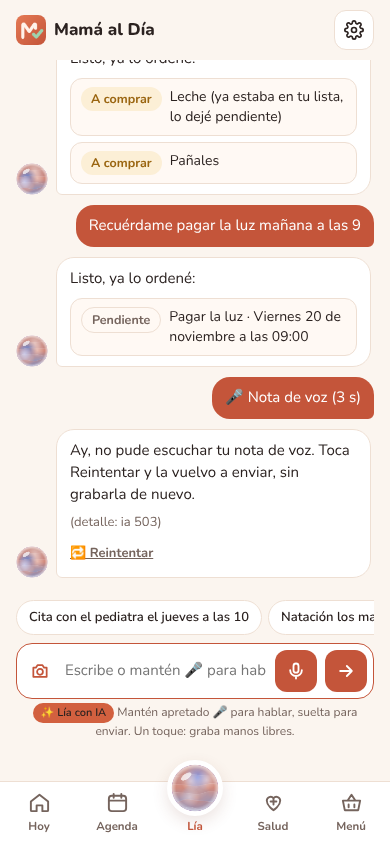
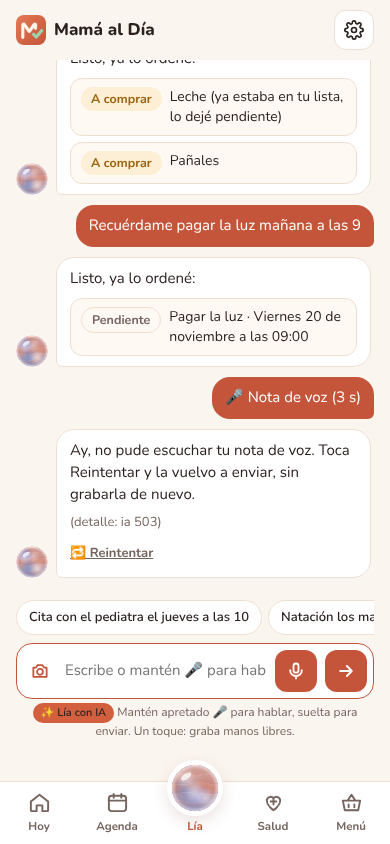
Modo "Hola Lía": activación por voz opcional con la app abierta y envío automático al terminar de hablar
Claude-Session: https://claude.ai/code/session_01XHFHEtpVzSWU39u8h6mkgx

diff --git a/index.html b/index.html
@@ -839,10 +839,10 @@ function recBar(){if(!rec)return;let b=$('#recbar');if(!b){b=document.createElem
  const s=Math.floor((Date.now()-rec.t0)/1000);if(s>=180&&!rec.done){finishRec(false);return}
  const live=(rec.final+' '+rec.interim).trim();
  b.className='recbar'+(rec.cancel?' cancel':'')+((aiCode()&&canAudio()&&!rec.ready)?' wait':'');
- b.innerHTML=`<span class="dot"></span><span class="tm">${Math.floor(s/60)}:${pad(s%60)}</span><span class="hint">${rec.cancel?'Suelta para cancelar':live?esc(live):(aiCode()&&canAudio()&&!rec.ready)?'Un segundito… espera la vibración y habla':rec.locked?'Te escucho… toca Enviar cuando termines':'Te escucho… suelta para enviar · desliza ← para cancelar'}</span>${rec.locked?'<button class="x" onclick="finishRec(true)">✕</button><button class="ok" onclick="finishRec(false)">Enviar</button>':''}`}
+ b.innerHTML=`<span class="dot"></span><span class="tm">${Math.floor(s/60)}:${pad(s%60)}</span><span class="hint">${rec.cancel?'Suelta para cancelar':live?esc(live):(aiCode()&&canAudio()&&!rec.ready)?'Un segundito… espera la vibración y habla':rec.auto?'Te escucho… cuando termines de hablar, lo envío':rec.locked?'Te escucho… toca Enviar cuando termines':'Te escucho… suelta para enviar · desliza ← para cancelar'}</span>${rec.locked?'<button class="x" onclick="finishRec(true)">✕</button><button class="ok" onclick="finishRec(false)">Enviar</button>':''}`}
 function stopUI(){if(rec){clearInterval(rec.timer);if(rec.btn)rec.btn.classList.remove('rec')}const b=$('#recbar');if(b)b.remove()}
 let micSt=null,micOff=null;
-function micKeep(){clearTimeout(micOff);micOff=setTimeout(()=>{if(micSt&&!rec){micSt.getTracks().forEach(t=>t.stop());micSt=null}},90000)}
+function micKeep(){clearTimeout(micOff);micOff=setTimeout(()=>{if(micSt&&!rec){micSt.getTracks().forEach(t=>t.stop());micSt=null}},S.wake?50:90000)}
 async function getMic(){if(micSt&&micSt.getAudioTracks().some(t=>t.readyState==='live'))return micSt;micSt=await navigator.mediaDevices.getUserMedia({audio:{echoCancellation:true,noiseSuppression:true}});return micSt}
 async function startAudio(){const r=rec;
  try{const st=await getMic();
@@ -850,7 +850,7 @@ async function startAudio(){const r=rec;
   if(!r.held&&!r.locked&&Date.now()-r.t0>900){micKeep();stopUI();rec=null;toast('Listo. Ahora mantén apretado 🎤 mientras hablas');return}
   const mt=['audio/webm;codecs=opus','audio/webm','audio/mp4','audio/ogg;codecs=opus'].find(t=>MediaRecorder.isTypeSupported&&MediaRecorder.isTypeSupported(t));
   const mr=new MediaRecorder(st,mt?{mimeType:mt,audioBitsPerSecond:32000}:undefined);r.mr=mr;r.st=st;r.chunks=[];r.tA=Date.now();
-  mr.ondataavailable=ev=>{if(ev.data&&ev.data.size)r.chunks.push(ev.data)};mr.start(250);r.ready=true;try{navigator.vibrate&&navigator.vibrate(25)}catch(x){}recBar();
+  mr.ondataavailable=ev=>{if(ev.data&&ev.data.size)r.chunks.push(ev.data)};mr.start(250);r.ready=true;if(r.auto)autoStop(r,st);try{navigator.vibrate&&navigator.vibrate(25)}catch(x){}recBar();
   if(r.pendingStop)finishRec(r.pendingCancel)}
  catch(err){stopUI();rec=null;if(SRc()){toast('Sin permiso de micrófono para notas de voz')}else toast('Activa el permiso del micrófono para hablar con Lía')}}
 function startSR(){const r=rec;const SR=SRc();
@@ -917,6 +917,29 @@ function orbLoop(now){requestAnimationFrame(orbLoop);if(document.hidden)return;c
  const st={o:ORB,amp:orbAmp,t:orbT,phase:0};
  document.querySelectorAll('canvas.orb').forEach(cv=>{const live=cv.closest('.face,.hi');if(!live){if(cv.dataset.d)return;cv.dataset.d=1;orbDraw(cv,{o:ORB,amp:0,t:orbT,phase:0},true);return}orbDraw(cv,st,true)})}
 requestAnimationFrame(orbLoop);
+
+/* ---- "Hola Lía": escucha la palabra de activación con la app abierta ---- */
+let wakeSR=null;
+function wakeStop(){const g=wakeSR;wakeSR=null;if(g){g.onend=null;try{g.abort()}catch(e){}}}
+function wakeOk(){return S&&S.wake&&SRc()&&!document.hidden&&!rec&&!busy&&!document.body.classList.contains('lia-talk')&&!($('#dlg')||{}).open}
+function wakeTick(){if(!wakeOk()){if(wakeSR&&(rec||busy||document.hidden||document.body.classList.contains('lia-talk')))wakeStop();return}if(wakeSR)return;
+ const g=new (SRc())();wakeSR=g;g.lang='es-BO';g.continuous=true;g.interimResults=true;
+ g.onresult=ev=>{let t='';for(let i=ev.resultIndex;i<ev.results.length;i++)t+=' '+ev.results[i][0].transcript;
+  if(/\b(hola|ola|oye|hey)\s*,?\s*(l[ií]a|lea|leah|lilia|l[ií]ah)\b/i.test(norm(t)))wakeHit()};
+ g.onerror=ev=>{if(ev.error==='not-allowed'||ev.error==='service-not-allowed'){S.wake=false;save();toast('Sin permiso de micrófono para "Hola Lía"')}};
+ g.onend=()=>{if(wakeSR===g)wakeSR=null};
+ try{g.start()}catch(e){wakeSR=null}}
+function wakeHit(){wakeStop();if(rec||busy)return;try{navigator.vibrate&&navigator.vibrate(30)}catch(e){}ctxOn();chime();if(S.tab!=='lia'){S.tab='lia';save();render()}
+ setTimeout(()=>{if(rec||busy)return;rec={src:'ci',btn:null,x0:0,t0:Date.now(),held:false,locked:true,auto:true,cancel:false,final:'',interim:''};recBar();rec.timer=setInterval(recBar,250);
+  if(aiCode()&&canAudio())startAudio();else{startSR();autoStopSR(rec)}},450)}
+function autoStop(r,st){try{const a=ctxOn();const src=a.createMediaStreamSource(st);const an=a.createAnalyser();an.fftSize=1024;src.connect(an);const buf=new Uint8Array(an.fftSize);
+ let heard=false,loud=Date.now();const t0=Date.now();
+ const iv=setInterval(()=>{if(rec!==r||r.done){clearInterval(iv);try{src.disconnect()}catch(e){}return}an.getByteTimeDomainData(buf);let q=0;for(let i=0;i<buf.length;i++){const v=(buf[i]-128)/128;q+=v*v}const rms=Math.sqrt(q/buf.length);
+  if(rms>0.035){if(Date.now()-t0>250)heard=true;loud=Date.now()}
+  if(heard&&Date.now()-loud>1800){clearInterval(iv);finishRec(false)}else if(!heard&&Date.now()-t0>8000){clearInterval(iv);finishRec(true)}},100)}catch(e){}}
+function autoStopSR(r){let last='',t=Date.now();const iv=setInterval(()=>{if(rec!==r||r.done){clearInterval(iv);return}const now=(r.final+' '+r.interim).trim();if(now!==last){last=now;t=Date.now()}
+ if(now&&Date.now()-t>1800){clearInterval(iv);finishRec(false)}else if(!now&&Date.now()-t>8000){clearInterval(iv);finishRec(true)}},200)}
+setInterval(wakeTick,1500);
 /* ---- voz de Lía ---- */
 function liaVoice(){let vs=[];try{vs=speechSynthesis.getVoices().filter(v=>/^es/i.test(v.lang))}catch(e){}
  const sc=v=>(/natural|neural|premium|enhanced|mejorad/i.test(v.name)?4:0)+(/paulina|m[oó]nica|marisol|ang[eé]lica|sabina|dalia|elena|helena|laura|luciana|francisca|camila|valentina|paloma|lupe|isabela|female|mujer/i.test(v.name)?3:0)+(/google/i.test(v.name)?1:0)+(/es[-_](419|MX|US|BO|AR|CO|PE|CL|EC|UY)/i.test(v.lang)?2:0)-(/jorge|diego|juan|carlos|pablo|enrique|alvaro|raul|male|hombre/i.test(v.name)?6:0);
@@ -1268,6 +1291,7 @@ function openSettings(){const p=S.profile;dlg(`<h3>Ajustes</h3>
  <label class="f">No le gusta</label><input class="inp" id="sD" value="${esc((p.dislikes||[]).join(', '))}" placeholder="brócoli, hígado">
  <label class="f">Código de Lía con IA</label><input class="inp" id="sCode" value="${esc(aiCode())}" placeholder="MD-XXXXXX" autocapitalize="characters">
  <label class="chips" style="margin-top:10px"><label><input type="checkbox" id="sVoice" ${S.voice!==false?'checked':''}>Lía me saluda y responde con voz</label></label>
+ ${SRc()?`<label class="chips" style="margin-top:6px"><label><input type="checkbox" id="sWake" ${S.wake?'checked':''}>Escuchar "Hola Lía" (con la app abierta)</label></label><div class="tiny muted">Di "Hola Lía" y empieza a grabar sola; cuando terminas de hablar, lo envía. Deja el micrófono encendido y gasta algo más de batería.</div>`:''}
  <div class="dlg-act"><button class="btn" onclick="saveSettings()">Guardar</button></div>
  <hr style="border:0;border-top:1px solid var(--line);margin:18px 0 6px">
  <button class="btn ghost block" style="margin-top:8px" onclick="askNotif(true)">Activar avisos en este celular</button>
@@ -1278,7 +1302,7 @@ function openSettings(){const p=S.profile;dlg(`<h3>Ajustes</h3>
  <button class="btn ghost block" onclick="closeDlg()">Cerrar</button>`)}
 function kidRow(k){return `<div class="card kidrow" data-id="${k.id}" style="padding:10px;margin:6px 0"><div class="row"><div style="flex:1"><input class="inp kN" placeholder="Nombre" value="${esc(k.name)}"></div><div style="flex:1"><input class="inp kB" type="date" value="${k.birth||''}"></div>${kids().length>1||k.id.startsWith('n')?`<button class="btn sm ghost" onclick="this.closest('.kidrow').remove()" aria-label="Quitar">✕</button>`:''}</div><textarea class="inp kC" rows="2" style="margin-top:6px" placeholder="Condición o cuidado especial (opcional): autismo, síndrome de Down, asma, TDAH…">${esc(k.cond||'')}</textarea></div>`}
 function addKidRow(){const d=document.createElement('div');d.innerHTML=kidRow({id:'n'+uid(),name:'',birth:'',cond:''});$('#kidsEd').appendChild(d.firstElementChild)}
-function saveSettings(){const rows=[...document.querySelectorAll('.kidrow')].map(r=>({id:r.dataset.id.startsWith('n')?'k'+uid():r.dataset.id,name:cap(r.querySelector('.kN').value.trim()),birth:r.querySelector('.kB').value,cond:r.querySelector('.kC').value.trim()})).filter(k=>k.name||k.birth);if(rows.length)S.kids=rows;syncKid();const p=S.profile;const nc=$('#sCode').value.trim().toUpperCase().replace(/\s+/g,'');if(nc!==aiCode()){setCode(nc);if(nc)checkCode(nc)}S.voice=$('#sVoice').checked;p.mom=$('#sM').value.trim()||p.mom;p.city=$('#sCity').value.trim();p.allergies=[...document.querySelectorAll('.sA:checked')].map(x=>x.value);p.dislikes=$('#sD').value.split(',').map(x=>norm(x.trim())).filter(Boolean);makeMenu(S.menu&&S.menu.seed);save();closeDlg();render();toast('Guardado')}
+function saveSettings(){const rows=[...document.querySelectorAll('.kidrow')].map(r=>({id:r.dataset.id.startsWith('n')?'k'+uid():r.dataset.id,name:cap(r.querySelector('.kN').value.trim()),birth:r.querySelector('.kB').value,cond:r.querySelector('.kC').value.trim()})).filter(k=>k.name||k.birth);if(rows.length)S.kids=rows;syncKid();const p=S.profile;const nc=$('#sCode').value.trim().toUpperCase().replace(/\s+/g,'');if(nc!==aiCode()){setCode(nc);if(nc)checkCode(nc)}S.voice=$('#sVoice').checked;{const w=$('#sWake');if(w){const was=S.wake;S.wake=w.checked;if(S.wake&&!was)toast('Listo: di "Hola Lía" cuando quieras');if(!S.wake)wakeStop()}}p.mom=$('#sM').value.trim()||p.mom;p.city=$('#sCity').value.trim();p.allergies=[...document.querySelectorAll('.sA:checked')].map(x=>x.value);p.dislikes=$('#sD').value.split(',').map(x=>norm(x.trim())).filter(Boolean);makeMenu(S.menu&&S.menu.seed);save();closeDlg();render();toast('Guardado')}
 function exportData(){const b=new Blob([JSON.stringify(S)],{type:'application/json'});const a=document.createElement('a');a.href=URL.createObjectURL(b);a.download='mamaaldia-respaldo-'+ymd(new Date())+'.json';a.click()}
 function importData(f){if(!f)return;f.text().then(t=>{const d=JSON.parse(t);if(!d.profile)throw 0;S=Object.assign(blank(),d);save();closeDlg();render();toast('Respaldo cargado')}).catch(()=>toast('Archivo no válido'))}
 async function askNotif(force){try{if(!('Notification' in window)){if(force)toast('Este navegador no permite avisos. Instala la app primero.');return}if(Notification.permission==='default'||force){const r=await Notification.requestPermission();if(force)toast(r==='granted'?'Avisos activados':'Avisos bloqueados en el navegador')}}catch(e){}}

diff --git a/sw.js b/sw.js
@@ -1,4 +1,4 @@
-const C='mamaaldia-v14';
+const C='mamaaldia-v15';
 const F=['./','./index.html','./manifest.webmanifest','./icon-192.png','./icon-512.png','./icon-maskable-512.png','./apple-touch-icon.png','./favicon.png'];
 self.addEventListener('install',e=>{e.waitUntil(caches.open(C).then(c=>c.addAll(F)));self.skipWaiting()});
 self.addEventListener('activate',e=>{e.waitUntil(caches.keys().then(k=>Promise.all(k.filter(x=>x!==C).map(x=>caches.delete(x)))));self.clients.claim()});
